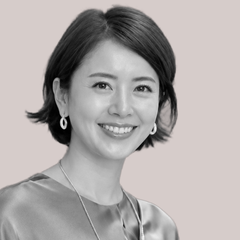
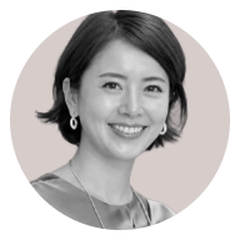
라인업(노경한·이주희·CEO·박세인·김휘승 카드)·타임테이블 프로필 사진을 피그마 수정본으로
Claude-Session: https://claude.ai/code/session_01R7psaqm8m7GEAGGww3SgQz

diff --git a/index.html b/index.html
@@ -908,7 +908,7 @@ try{ if('scrollRestoration' in history) history.scrollRestoration='manual'; }cat
     if(n==='에브리바레') return `<span class="av logo"><img src="img/everybarre.png" alt="everybarre"></span>`;
     if(n==='스페셜 게스트') return `<span class="av guest" aria-hidden="true"><svg width="20" height="20" viewBox="0 0 24 24"><path d="M12 1.5C12.7 7.4 16.6 11.3 22.5 12C16.6 12.7 12.7 16.6 12 22.5C11.3 16.6 7.4 12.7 1.5 12C7.4 11.3 11.3 7.4 12 1.5Z" fill="#7A5450"/></svg></span>`;
     const f=PHOTO[n]; if(!f) return `<span class="av" aria-hidden="true">${n.slice(0,1)}</span>`;
-    return `<span class="av photo"><img src="img/${f}.png?v=7" alt="" loading="lazy"></span>`; };
+    return `<span class="av photo"><img src="img/${f}.png?v=8" alt="" loading="lazy"></span>`; };
   const dur=t=>{const m=t.match(/(\d+):(\d+)\D+(\d+):(\d+)/); if(!m) return ''; const d=(+m[3]*60+ +m[4])-(+m[1]*60+ +m[2]); return d>0?d+'분':'';};
   const ACT={open:()=>`<a class="s-book" href="${BOOK}" target="_blank" rel="noopener">예매하기 ↗</a>`,
     soon:()=>`<span class="c-state soon">오픈 예정</span>`,
@@ -961,7 +961,7 @@ try{ if('scrollRestoration' in history) history.scrollRestoration='manual'; }cat
     ['hong_lu','홍정기','교수 · 데이스쿼트','EXERCISE SNACKING','11.20 FRI','B',[-4.17,14.86,117.86]],
     ['ceo_lu','김록 · 찰리 · 박재현','1,000 CAL CLUB · 롱진 · SMCC','CEO SESSION','11.20 FRI','O',[0,0,100]],
     ['trio_lu','박세인 · 김태희 · 정희진','웰니스 키 플레이어 토크','WELLNESS KEY PLAYER','11.20 FRI','W',[0,0,100]],
-    ['noh','노경한 · 유현주','정형외과 전문의 · 프로골프선수','MOVEMENT','11.22 SUN','B',[-12.2,25.9,82.14],0,['yoohj_lu',23.81,20.95,89.88]],
+    ['noh_duo','노경한 · 유현주','정형외과 전문의 · 프로골프선수','MOVEMENT','11.22 SUN','B',[0,0,100]],
     ['byun','변상균','연세대학교 생명공학과 교수','LONGEVITY SCIENCE','11.21 SAT','O',[-10.36,17.61,108.93]],
     ['lee_trio','이주희 · 김소영 · 이성곤','피부과 전문의 · 커브드 대표 · 벨레다 코리아 지사장','SKIN LONGEVITY','11.21 SAT','W',[0,0,100]],
     ['choi','최예진','산부인과 전문의',"WOMEN'S HEALTH",'11.21 SAT','O',[-7.53,9.50,113.10]],
@@ -970,13 +970,13 @@ try{ if('scrollRestoration' in history) history.scrollRestoration='manual'; }cat
     ['smcc_barre','에브리바레','함께 움직이는 액티비티','SMCC BARRE','11.21 SAT','B',[0,0,100]],
     ['smcc_yoga','박준형','시이작 원장 · 연희요가위크 기획자','SMCC YOGA','11.22 SUN','B',[0,0,100]]];
   const LV=[['soon'],...L.filter(r=>!r[7])];
-  const WORD={"byun": ["LONGEVITY", "SCIENCE"], "noh": ["MOVE", "MENT"], "lee": ["SKIN", "LONGEVITY"], "choi": ["WOMEN'S", "HEALTH"], "woo": ["META", "BOLIC"], "woo_duo": ["META", "BOLIC"], "lee_trio": ["SKIN", "LONGEVITY"], "khs_duo": ["GLUCOSE", "SPIKE"], "smcc_lu": ["SMCC", "SESSION"], "smcc_bookdive": ["SMCC", "SESSION"], "smcc_barre": ["SMCC", "SESSION"], "smcc_yoga": ["SMCC", "SESSION"], "oh": ["MENTAL", "WELLNESS"], "nakjun_lu": ["LONGEVITY", "HISTORY"], "hong_lu": ["EXERCISE", "SNACKING"], "ceo_lu": ["CEO", "TALK"], "trio_lu": ["WELLNESS", "ROUTINE"]};
+  const WORD={"byun": ["LONGEVITY", "SCIENCE"], "noh": ["MOVE", "MENT"], "lee": ["SKIN", "LONGEVITY"], "choi": ["WOMEN'S", "HEALTH"], "woo": ["META", "BOLIC"], "woo_duo": ["META", "BOLIC"], "lee_trio": ["SKIN", "LONGEVITY"], "noh_duo": ["MOVE", "MENT"], "khs_duo": ["GLUCOSE", "SPIKE"], "smcc_lu": ["SMCC", "SESSION"], "smcc_bookdive": ["SMCC", "SESSION"], "smcc_barre": ["SMCC", "SESSION"], "smcc_yoga": ["SMCC", "SESSION"], "oh": ["MENTAL", "WELLNESS"], "nakjun_lu": ["LONGEVITY", "HISTORY"], "hong_lu": ["EXERCISE", "SNACKING"], "ceo_lu": ["CEO", "TALK"], "trio_lu": ["WELLNESS", "ROUTINE"]};
   const rail=document.getElementById('rail');
   const BOOKL='https://mindwellexpo.com/ticket/longzine';
   const cardHTML=(r,clone)=>{ const ti=clone?' tabindex="-1" aria-hidden="true"':'';
     if(r[0]==='soon') return `<a class="l-card soon" href="${BOOKL}" target="_blank" rel="noopener"${ti}><div class="l-top"><span>LINEUP</span><b>COMING SOON</b></div><div class="soon-mid"><svg viewBox="0 0 24 24" width="44" height="44" aria-hidden="true"><path d="M12 1.5C12.7 7.4 16.6 11.3 22.5 12C16.6 12.7 12.7 16.6 12 22.5C11.3 16.6 7.4 12.7 1.5 12C7.4 11.3 11.3 7.4 12 1.5Z" fill="#fff"/></svg><h3>더 많은 연사가<br>곧 공개됩니다</h3></div><div class="l-bottom"><span class="l-book">롱진콘 신청하기 ↗</span></div></a>`;
     const [f,n,d,c,dt,t,[x,y,w]]=r;
-    return `<a class="l-card ${t}${r[8]?' duo':''}${n.includes(' · ')?' multi':''}" href="${f.startsWith('smcc_')?'#program':BOOKL}"${f.startsWith('smcc_')?'':' target="_blank" rel="noopener"'}${ti}><div class="l-type" aria-hidden="true"><span>${WORD[f][0]}</span><span>${WORD[f][1]}</span></div>${r[8]?`<img src="img/${r[8][0]}.webp?v=3" alt="" loading="lazy" style="left:${r[8][1]}%;top:${r[8][2]}%;width:${r[8][3]}%;filter:none">`:''}<img src="img/${f}.webp${f==='ceo_lu'?'?v=4':f.startsWith('smcc_')?'?v=3':(f==='trio_lu'||f==='woo_duo'||f==='lee_trio'||f==='khs_duo')?'?v=1':''}" alt="${clone?'':n}" loading="lazy" style="left:${x}%;top:${y}%;width:${w}%${(f==='ceo_lu'||f==='trio_lu'||f==='woo_duo'||f==='lee_trio'||f==='khs_duo'||f.startsWith('smcc_'))?';filter:none':''}">${r[8]?'<div style="position:absolute;left:-5.95%;top:66.89%;width:108.33%;height:36.71%;background:linear-gradient(rgba(14,46,90,0),#0E2E5A);pointer-events:none"></div>':''}${(f==='trio_lu'||f==='woo_duo'||f==='lee_trio'||f==='khs_duo'||f.startsWith('smcc_'))?'':'<div class="scrim"></div>'}<div class="l-top"><span>${c}</span><b>${dt}</b></div><div class="l-bottom"><h3>${n}</h3><p>${d}</p><span class="l-book">${f.startsWith('smcc_')?'SMCC 별도 모집':'예매하기 ↗'}</span></div></a>`; };
+    return `<a class="l-card ${t}${r[8]?' duo':''}${n.includes(' · ')?' multi':''}" href="${f.startsWith('smcc_')?'#program':BOOKL}"${f.startsWith('smcc_')?'':' target="_blank" rel="noopener"'}${ti}><div class="l-type" aria-hidden="true"><span>${WORD[f][0]}</span><span>${WORD[f][1]}</span></div>${r[8]?`<img src="img/${r[8][0]}.webp?v=3" alt="" loading="lazy" style="left:${r[8][1]}%;top:${r[8][2]}%;width:${r[8][3]}%;filter:none">`:''}<img src="img/${f}.webp${f==='ceo_lu'?'?v=5':f.startsWith('smcc_')?'?v=3':(f==='trio_lu')?'?v=2':(f==='woo_duo'||f==='lee_trio'||f==='khs_duo'||f==='noh_duo')?'?v=1':''}" alt="${clone?'':n}" loading="lazy" style="left:${x}%;top:${y}%;width:${w}%${(f==='ceo_lu'||f==='trio_lu'||f==='woo_duo'||f==='lee_trio'||f==='khs_duo'||f==='noh_duo'||f.startsWith('smcc_'))?';filter:none':''}">${r[8]?'<div style="position:absolute;left:-5.95%;top:66.89%;width:108.33%;height:36.71%;background:linear-gradient(rgba(14,46,90,0),#0E2E5A);pointer-events:none"></div>':''}${(f==='ceo_lu'||f==='trio_lu'||f==='woo_duo'||f==='lee_trio'||f==='khs_duo'||f==='noh_duo'||f.startsWith('smcc_'))?'':'<div class="scrim"></div>'}<div class="l-top"><span>${c}</span><b>${dt}</b></div><div class="l-bottom"><h3>${n}</h3><p>${d}</p><span class="l-book">${f.startsWith('smcc_')?'SMCC 별도 모집':'예매하기 ↗'}</span></div></a>`; };
   // 무한 루프: 같은 카드 세트를 앞·뒤로 한 벌씩 더 붙이고, 가운데 세트를 벗어나면 같은 위치의 가운데 카드로 몰래 점프
   rail.innerHTML=LV.map(c=>cardHTML(c,1)).join('')+LV.map(c=>cardHTML(c,0)).join('')+LV.map(c=>cardHTML(c,1)).join('');
   const cards=()=>rail.querySelectorAll('.l-card');
